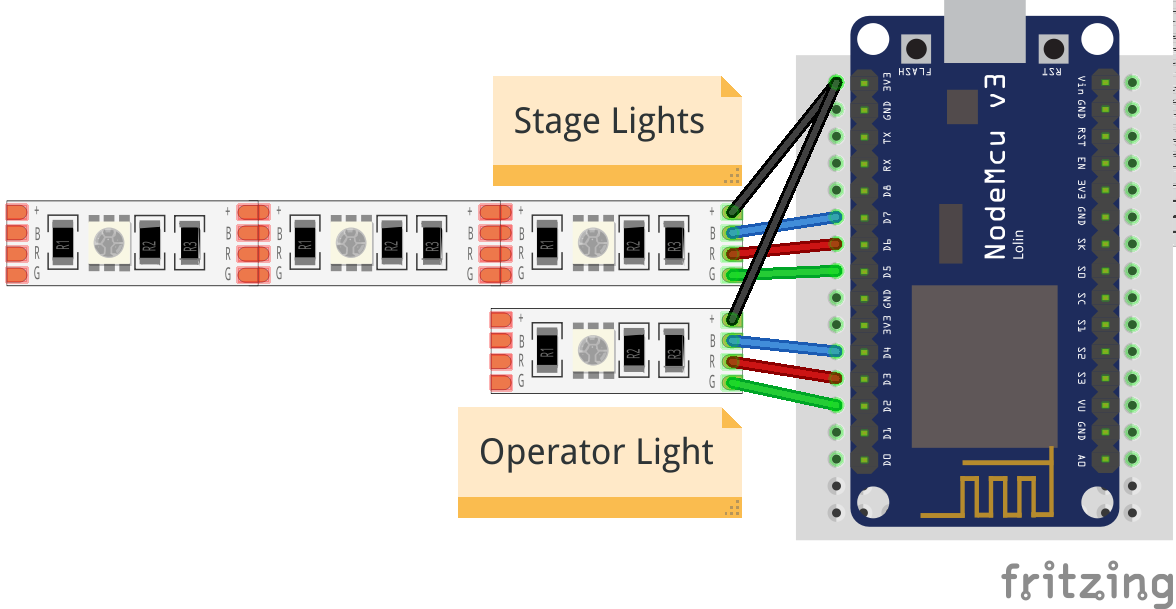
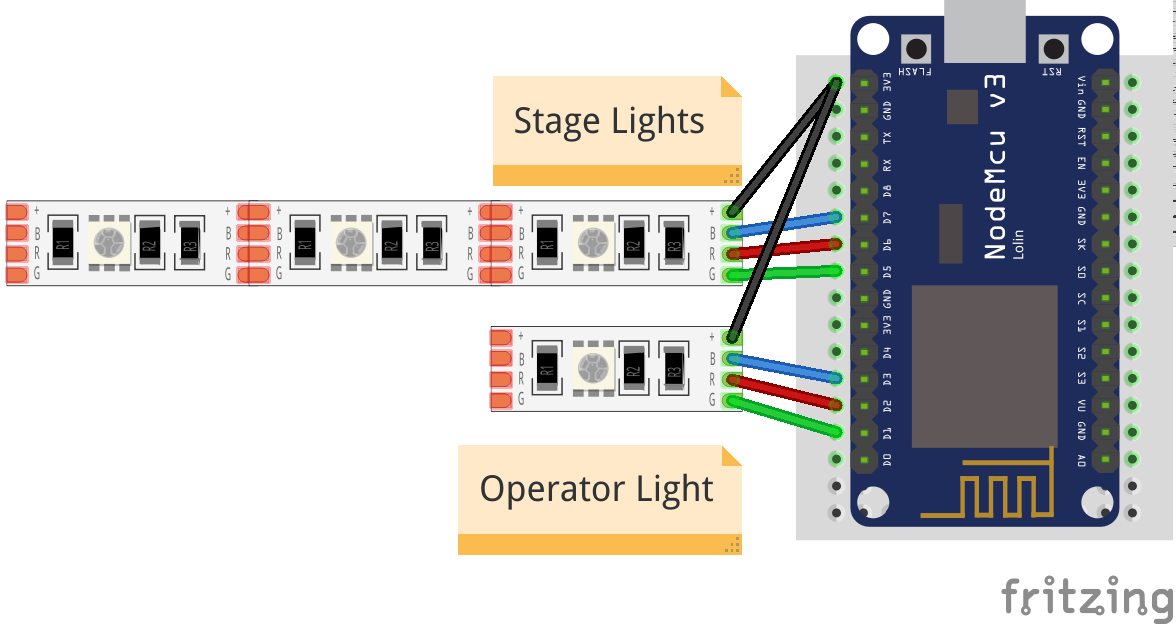
move stage light to pins D1-D3
This is to free PIN 4 for WS2812 use

diff --git a/Changelog.md b/Changelog.md
@@ -1,6 +1,7 @@
 # TBD
 
 * [BREAKING] location where the hub stores its configuration has been changed from `hub/config.json` to `$HOME/.wifi-tally.json` #21
+* [BREAKING] Pins for Stage Light have been moved from `D2-D4` to `D1-D3`
 * [BREAKING] The firmware is no longer part of the repository and will be built on Travis. If you need a firmware for development, get it from the latest release. #25
 * [ADDED] allow the use of LEDs with common cathode #31
 

diff --git a/documentation/docs/getting-started.md b/documentation/docs/getting-started.md
@@ -84,9 +84,9 @@ All you need to do is connecting the LED strip to the NodeMCU board.
 
 | board PIN | strip PIN |
 | --- | --- |
-| D4 | B |
-| D3 | R |
-| D2 | G |
+| D3 | B |
+| D2 | R |
+| D1 | G |
 | 3V3 | + or +5V |
 
 !!! info
